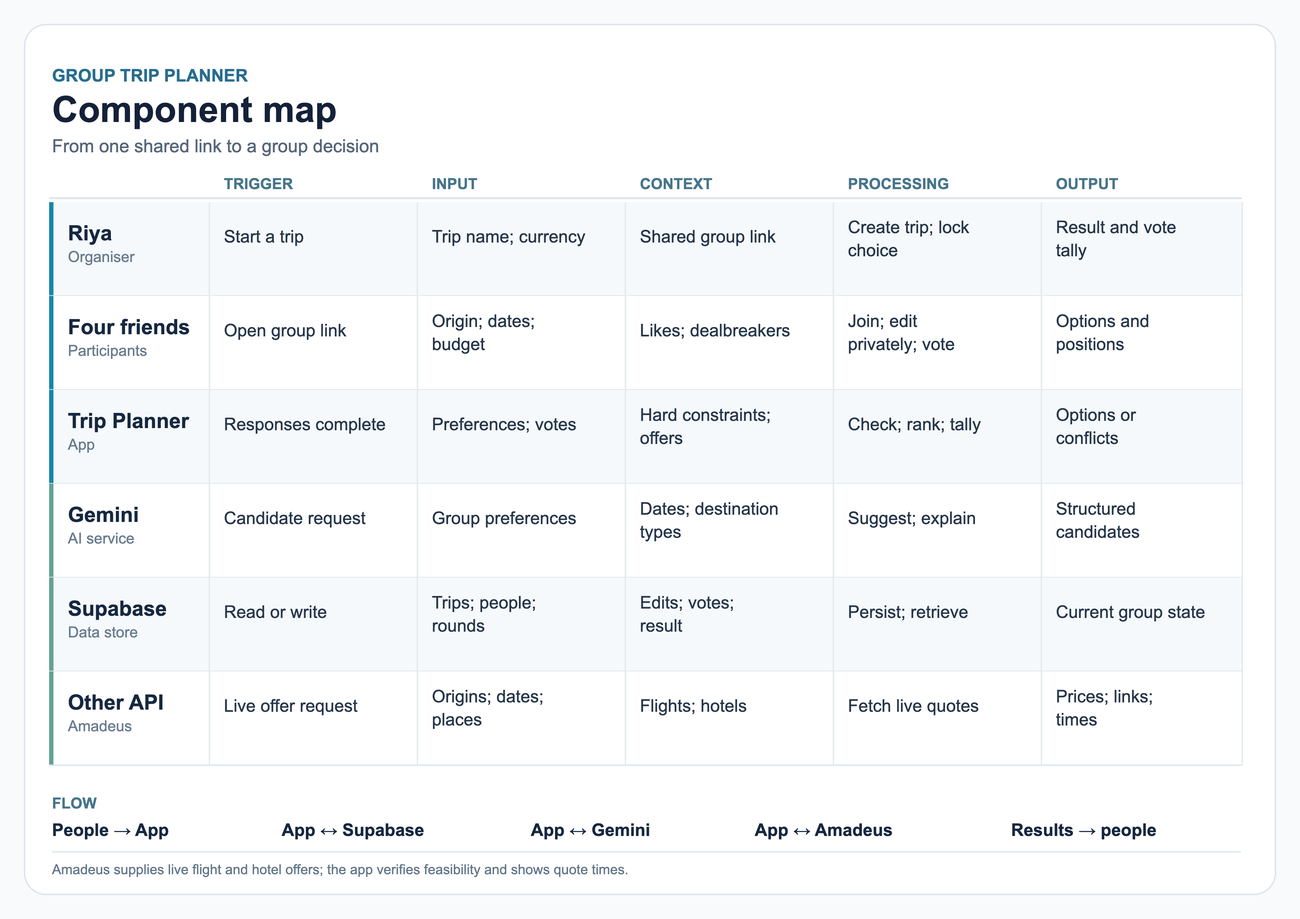
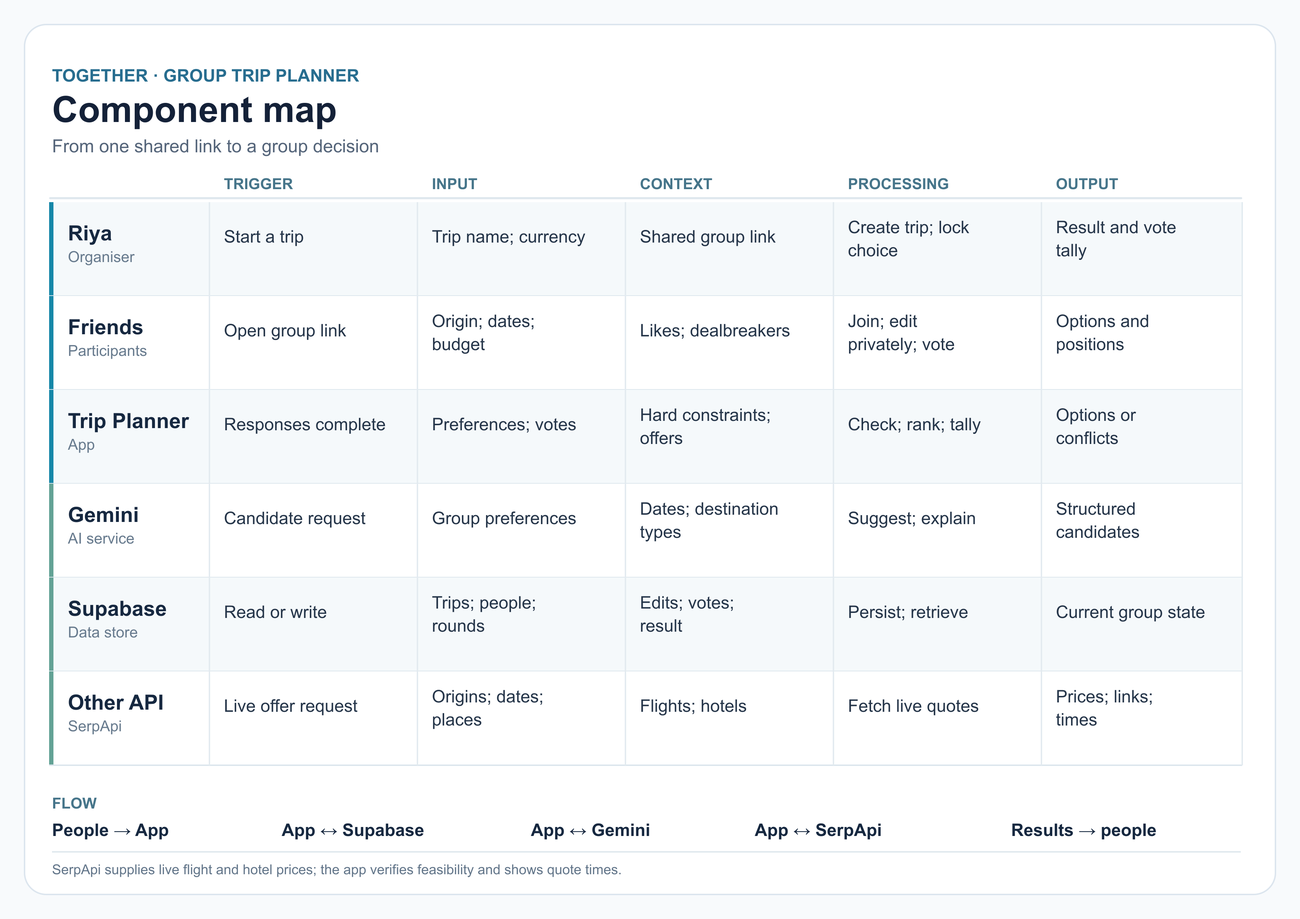
Rename app to Together and use free travel search provider

diff --git a/src/app/trip/[slug]/page.tsx b/src/app/trip/[slug]/page.tsx
@@ -44,7 +44,7 @@ export default function TripPage() {
   const sharedLink = typeof window === 'undefined' ? '' : `${location.origin}/trip/${slug}`;
   const privateLink = typeof window === 'undefined' ? '' : `${location.origin}/trip/${slug}#${trip?.organizer ? 'organizer' : 'member'}=${secret}`;
   const submitted = trip?.members.filter(m => m.submitted).length || 0;
-  return <main className="site-shell trip-shell"><header className="topbar"><a className="wordmark" href="/">gather<span>.</span></a><span className="eyebrow">THE GROUP TRIP STUDIO</span></header>
+  return <main className="site-shell trip-shell"><header className="topbar"><a className="wordmark" href="/">together<span>.</span></a><span className="eyebrow">THE GROUP TRIP STUDIO</span></header>
     {!trip ? <section className="loading">{error || 'Opening your trip…'}</section> : <><div className="trip-heading"><div><div className="index-label"><span className="dot"/> YOUR GROUP SPACE</div><h1>{trip.title}</h1><p>The trip takes shape as everyone adds their piece.</p></div><div className="share-box"><span>GROUP INVITE LINK</span><code>{sharedLink}</code><button onClick={() => copy(sharedLink, 'Group link')}>Copy link ↗</button></div></div>
     <div className="trip-grid"><div className="main-column"><section className="panel progress-panel"><div className="section-heading"><div><span className="section-index">01 / THE PEOPLE</span><h2>Everyone in?</h2></div><strong>{submitted}<small> / {trip.members.length} ready</small></strong></div><div className="progress-bar"><span style={{ width: `${trip.members.length ? submitted / trip.members.length * 100 : 0}%` }}/></div><div className="people-list">{trip.members.map((m, i) => <div className="person" key={`${m.name}-${i}`}><span className="avatar">{m.name.slice(0, 1).toUpperCase()}</span><span>{m.name}{trip.self?.name === m.name ? <em> · you</em> : ''}</span><span className={m.submitted ? 'status done' : 'status'}>{m.submitted ? 'READY' : 'WAITING'}</span></div>)}</div></section>
       {!trip.self && <section className="panel"><span className="section-index">JOIN THE GROUP</span><h2>Pull up a seat.</h2><p>Anyone with the group link can join. Your answer gets its own private edit link.</p><form onSubmit={e => { e.preventDefault(); void act('join', { name }); }} className="inline-form"><input value={name} maxLength={50} onChange={e => setName(e.target.value)} placeholder="Your name" required/><button className="primary" disabled={!!busy}>Join trip ↗</button></form></section>}
@@ -53,12 +53,12 @@ export default function TripPage() {
         {!trip.round && <p>{submitted === trip.members.length && trip.members.length >= 2 ? 'Everyone is ready. The organiser can generate options now.' : 'Options appear once at least two people have joined and everyone has submitted.'}</p>}
         {trip.round?.stale && <p className="notice">Preferences changed or someone joined since this round. The organiser can start a fresh round; this result stays in the history.</p>}
         {trip.round?.status === 'conflict' && <div className="conflict"><strong>No verified option this round</strong><p>Here is what stopped a recommendation:</p><ul>{trip.round.issues.map((issue, i) => <li key={i}>{issue}</li>)}</ul></div>}
-        {trip.round?.options.map((option, index) => <article className={`option ${trip.round?.locked_option_id === option.id ? 'chosen' : ''}`} key={option.id}><div className="option-top"><span>OPTION {String(index + 1).padStart(2, '0')} · {option.destination_type.toUpperCase()}</span><span>{option.score}% GROUP FIT</span></div><h3>{option.city}<small>, {option.country}</small></h3><p>{option.reason}</p><div className="option-prices"><div><span>GROUP ESTIMATE</span><strong>{trip.currency} {Math.round(option.total_cost).toLocaleString()}</strong></div><div><span>HOTEL</span><strong>{option.quote.hotelName}</strong></div></div><div className="positions">{option.positions.map(position => <div key={position.memberId}><span>{position.name}</span><span>{position.position}</span><strong>{position.cost === null ? 'Unavailable' : `${trip.currency} ${position.cost.toLocaleString()}`} <small>/ {position.budget.toLocaleString()} budget</small></strong></div>)}</div><div className="option-actions"><span>{trip.round?.locked_option_id === option.id ? '✓ CHOSEN TRIP' : `${trip.round?.tally[option.id] || 0} vote${trip.round?.tally[option.id] === 1 ? '' : 's'}`}</span>{trip.self && trip.round?.status === 'ready' && <button onClick={() => act('vote', { optionId: option.id })} disabled={!!busy || trip.round?.stale}>{trip.round?.myVote === option.id ? 'Your vote ✓' : 'Vote for this ↗'}</button>}</div><div className="quote-foot">Live Amadeus quote · {new Date(option.quote.quotedAt).toLocaleString()} · Availability and prices can change. <a href={option.quote.hotelLink} target="_blank" rel="noreferrer">Compare hotels ↗</a>{trip.self && option.quote.flightLinks[trip.self.id] && <> · <a href={option.quote.flightLinks[trip.self.id]} target="_blank" rel="noreferrer">Compare flights ↗</a></>}</div></article>)}
+        {trip.round?.options.map((option, index) => <article className={`option ${trip.round?.locked_option_id === option.id ? 'chosen' : ''}`} key={option.id}><div className="option-top"><span>OPTION {String(index + 1).padStart(2, '0')} · {option.destination_type.toUpperCase()}</span><span>{option.score}% GROUP FIT</span></div><h3>{option.city}<small>, {option.country}</small></h3><p>{option.reason}</p><div className="option-prices"><div><span>GROUP ESTIMATE</span><strong>{trip.currency} {Math.round(option.total_cost).toLocaleString()}</strong></div><div><span>HOTEL</span><strong>{option.quote.hotelName}</strong></div></div><div className="positions">{option.positions.map(position => <div key={position.memberId}><span>{position.name}</span><span>{position.position}</span><strong>{position.cost === null ? 'Unavailable' : `${trip.currency} ${position.cost.toLocaleString()}`} <small>/ {position.budget.toLocaleString()} budget</small></strong></div>)}</div><div className="option-actions"><span>{trip.round?.locked_option_id === option.id ? '✓ CHOSEN TRIP' : `${trip.round?.tally[option.id] || 0} vote${trip.round?.tally[option.id] === 1 ? '' : 's'}`}</span>{trip.self && trip.round?.status === 'ready' && <button onClick={() => act('vote', { optionId: option.id })} disabled={!!busy || trip.round?.stale}>{trip.round?.myVote === option.id ? 'Your vote ✓' : 'Vote for this ↗'}</button>}</div><div className="quote-foot">Live Google Travel quote via SerpApi · {new Date(option.quote.quotedAt).toLocaleString()} · Availability and prices can change. <a href={option.quote.hotelLink} target="_blank" rel="noreferrer">Compare hotels ↗</a>{trip.self && option.quote.flightLinks[trip.self.id] && <> · <a href={option.quote.flightLinks[trip.self.id]} target="_blank" rel="noreferrer">Compare flights ↗</a></>}</div></article>)}
         {trip.round?.status === 'ready' && trip.organizer && <div className="lock-row"><select aria-label="Option to lock" value={lockOption} onChange={e => setLockOption(e.target.value)}>{trip.round.options.map(option => <option key={option.id} value={option.id}>{option.city} · {trip.round?.tally[option.id] || 0} votes</option>)}</select><button className="primary" disabled={!!busy || !lockOption || trip.round.stale} onClick={() => act('lock', { optionId: lockOption })}>Lock group choice ↗</button></div>}
-        <p className="coverage">Flight coverage is limited by Amadeus inventory. Quotes are estimates, and booking searches may show different prices. Only options with live flight and hotel offers are shown. Review free-text dealbreakers together before booking.</p>
+        <p className="coverage">Flight and hotel coverage depends on Google Travel results. Quotes are estimates, and booking searches may show different prices. Only options with live flight and hotel offers are shown. Review free-text dealbreakers together before booking.</p>
       </section></div>
     <aside className="side-column"><section className="aside-card"><span className="section-index">YOUR NEXT STEP</span><h2>{!trip.self ? 'Join the trip.' : !trip.self.submitted ? 'Add your preferences.' : submitted < trip.members.length ? 'Invite the rest.' : trip.round?.status === 'ready' && !trip.round.myVote ? 'Cast your vote.' : trip.round?.status === 'locked' ? 'Trip decided.' : 'Ready for options.'}</h2><p>{!trip.self ? 'Enter your name in the group space.' : !trip.self.submitted ? 'A few details make the options useful for everyone.' : submitted < trip.members.length ? 'Share the group link with anyone still missing.' : trip.round?.status === 'locked' ? 'The organiser has locked the group choice.' : 'Every response is in. The organiser can start a round.'}</p>{trip.organizer && submitted === trip.members.length && trip.members.length >= 2 && <button className="secondary" disabled={!!busy} onClick={() => act('generate')}>{busy === 'generate' ? 'Checking live offers…' : trip.round ? 'Start new round ↗' : 'Generate options ↗'}</button>}</section><section className="aside-note"><span>HOW IT WORKS</span><p>We check shared dates, every budget and excluded destinations against live flight and hotel offers before showing a fit.</p></section>{trip.previousRounds.length > 0 && <section className="aside-note"><span>EARLIER ROUNDS</span>{trip.previousRounds.map(round => <p key={round.id}>{new Date(round.createdAt).toLocaleDateString()} · {round.lockedChoice ? `Chosen: ${round.lockedChoice}` : round.status}</p>)}</section>}</aside></div>
     {(error || notice) && <div className={error ? 'toast error' : 'toast'} role="status">{error || notice}<button onClick={() => { setError(''); setNotice(''); }} aria-label="Dismiss">×</button></div>}
     </>}
-    <footer className="footer"><span>GOOD PLANS MAKE ROOM FOR EVERYONE.</span><span>GATHER · GROUP TRAVEL</span></footer></main>;
+    <footer className="footer"><span>GOOD PLANS MAKE ROOM FOR EVERYONE.</span><span>TOGETHER · GROUP TRAVEL</span></footer></main>;
 }

diff --git a/src/lib/providers.ts b/src/lib/providers.ts
@@ -7,7 +7,7 @@ function required(name: string) {
 }
 
 export async function suggestCandidates(members: MemberInput[], dates: { startDate: string; endDate: string }): Promise<Candidate[]> {
-  const prompt = `Suggest 5 distinct real travel destinations with valid three-letter IATA city codes usable for both flight and hotel search. Return only JSON. Group dates: ${dates.startDate} to ${dates.endDate}. Group preferences: ${JSON.stringify(members.map(m => ({ origin: m.origin, budget: m.budget, destinationType: m.destinationType, preferences: m.preferences, dealbreakers: m.dealbreakers, excludedDestinations: m.excludedDestinations })))}. Avoid every excluded destination and dealbreaker. No prices. Keep reason under 140 characters. Types must be one of beach, city, nature, adventure, culture.`;
+  const prompt = `Suggest 3 distinct real travel destinations with valid three-letter IATA city codes usable for both flight and hotel search. Return only JSON. Group dates: ${dates.startDate} to ${dates.endDate}. Group preferences: ${JSON.stringify(members.map(m => ({ origin: m.origin, budget: m.budget, destinationType: m.destinationType, preferences: m.preferences, dealbreakers: m.dealbreakers, excludedDestinations: m.excludedDestinations })))}. Avoid every excluded destination and dealbreaker. No prices. Keep reason under 140 characters. Types must be one of beach, city, nature, adventure, culture.`;
   const response = await fetch('https://generativelanguage.googleapis.com/v1beta/models/gemini-2.5-flash:generateContent', {
     method: 'POST',
     headers: { 'Content-Type': 'application/json', 'x-goog-api-key': required('GEMINI_API_KEY') },
@@ -19,58 +19,47 @@ export async function suggestCandidates(members: MemberInput[], dates: { startDa
   const raw = result.candidates?.[0]?.content?.parts?.[0]?.text;
   if (!raw) throw new Error('Gemini returned no destinations. Try again.');
   const candidates = JSON.parse(raw).candidates as Candidate[];
-  return candidates.filter(c => c.city && c.country && /^[A-Z]{3}$/.test(c.iata)).slice(0, 6);
+  return candidates.filter(c => c.city && c.country && /^[A-Z]{3}$/.test(c.iata)).slice(0, 3);
 }
 
-let accessToken: { value: string; expiresAt: number } | null = null;
-let tokenRequest: Promise<string> | null = null;
-async function amadeusToken() {
-  if (accessToken && accessToken.expiresAt > Date.now() + 30000) return accessToken.value;
-  if (!tokenRequest) tokenRequest = (async () => {
-    const response = await fetch('https://api.amadeus.com/v1/security/oauth2/token', {
-      method: 'POST', headers: { 'Content-Type': 'application/x-www-form-urlencoded' },
-      body: new URLSearchParams({ grant_type: 'client_credentials', client_id: required('AMADEUS_CLIENT_ID'), client_secret: required('AMADEUS_CLIENT_SECRET') }),
-      cache: 'no-store', signal: AbortSignal.timeout(12000),
-    });
-    if (!response.ok) throw new Error(`Amadeus authentication returned ${response.status}. Check production access.`);
-    const data = await response.json();
-    accessToken = { value: data.access_token, expiresAt: Date.now() + Number(data.expires_in || 1500) * 1000 };
-    return accessToken.value;
-  })().finally(() => { tokenRequest = null; });
-  return tokenRequest;
-}
-
-async function amadeus(path: string, params: Record<string, string>) {
-  const url = new URL(`https://api.amadeus.com${path}`);
+async function search(params: Record<string, string>) {
+  const url = new URL('https://serpapi.com/search.json');
   for (const [key, value] of Object.entries(params)) url.searchParams.set(key, value);
-  const response = await fetch(url, { headers: { Authorization: `Bearer ${await amadeusToken()}` }, cache: 'no-store', signal: AbortSignal.timeout(12000) });
-  if (!response.ok) throw new Error(`Amadeus ${path} returned ${response.status}.`);
-  return response.json();
+  url.searchParams.set('api_key', required('SERPAPI_API_KEY'));
+  const response = await fetch(url, { cache: 'no-store', signal: AbortSignal.timeout(20000) });
+  if (!response.ok) throw new Error(`SerpApi returned ${response.status}. Check the free-plan quota or try later.`);
+  const data = await response.json();
+  if (data.error) throw new Error(`SerpApi search failed: ${String(data.error).slice(0, 180)}`);
+  return data;
 }
+
+type Flight = { price?: number };
+type Hotel = { name?: string; total_rate?: { extracted_lowest?: number } };
+const positive = (value: unknown): value is number => typeof value === 'number' && Number.isFinite(value) && value > 0;
 
 export async function liveQuote(candidate: Candidate, members: MemberInput[], dates: { startDate: string; endDate: string }, currency: string): Promise<{ quote: Quote | null; error?: string }> {
   try {
-    const roomQuantity = Math.ceil(members.length / 2);
-    const hotelList = await amadeus('/v1/reference-data/locations/hotels/by-city', { cityCode: candidate.iata });
-    const hotelIds = (hotelList.data || []).slice(0, 8).map((h: { hotelId: string }) => h.hotelId).filter(Boolean).join(',');
-    if (!hotelIds) return { quote: null, error: `No hotel inventory for ${candidate.city}.` };
-    const hotelRequest = amadeus('/v3/shopping/hotel-offers', { hotelIds, adults: String(members.length), roomQuantity: String(roomQuantity), checkInDate: dates.startDate, checkOutDate: dates.endDate, currency });
     const origins = [...new Set(members.map(m => m.origin))];
-    const flightsRequest = Promise.all(origins.map(async origin => {
+    const [hotelResult, ...flightResults] = await Promise.all([
+      search({ engine: 'google_hotels', q: `Hotels in ${candidate.city}, ${candidate.country}`, check_in_date: dates.startDate, check_out_date: dates.endDate, adults: String(members.length), currency }),
+      ...origins.map(origin => origin === candidate.iata ? Promise.resolve(null) : search({ engine: 'google_flights', departure_id: origin, arrival_id: candidate.iata, outbound_date: dates.startDate, return_date: dates.endDate, type: '1', adults: '1', currency })),
+    ]);
+    const hotels = (hotelResult.properties || [] as Hotel[])
+      .map((hotel: Hotel) => ({ name: hotel.name || 'Hotel', price: hotel.total_rate?.extracted_lowest }))
+      .filter((hotel: { price: unknown }) => positive(hotel.price))
+      .sort((a: { price: number }, b: { price: number }) => a.price - b.price);
+    const flights = origins.map((origin, index) => {
       if (origin === candidate.iata) return [origin, 0] as const;
-      const result = await amadeus('/v2/shopping/flight-offers', { originLocationCode: origin, destinationLocationCode: candidate.iata, departureDate: dates.startDate, returnDate: dates.endDate, adults: '1', currencyCode: currency, max: '10' });
-      const prices = (result.data || []).map((f: { price?: { grandTotal?: string; total?: string } }) => Number(f.price?.grandTotal || f.price?.total)).filter((n: number) => Number.isFinite(n) && n > 0);
+      const result = flightResults[index];
+      const prices = [...(result?.best_flights || []), ...(result?.other_flights || [])].map((flight: Flight) => flight.price).filter(positive);
       return [origin, prices.length ? Math.min(...prices) : NaN] as const;
-    }));
-    const [hotels, flights] = await Promise.all([hotelRequest, flightsRequest]);
-    const hotelOffers = (hotels.data || []).flatMap((h: { hotel?: { name?: string }; offers?: { price?: { total?: string } }[] }) => (h.offers || []).map(o => ({ name: h.hotel?.name || 'Hotel', price: Number(o.price?.total) }))).filter((h: { price: number }) => Number.isFinite(h.price) && h.price > 0);
-    hotelOffers.sort((a: { price: number }, b: { price: number }) => a.price - b.price);
-    if (!hotelOffers.length || flights.some(([, price]) => !Number.isFinite(price))) return { quote: null, error: `No complete flight and hotel offers for ${candidate.city}.` };
+    });
+    if (!hotels.length || flights.some(([, price]) => !Number.isFinite(price))) return { quote: null, error: `No complete round-trip flight and group hotel prices for ${candidate.city}.` };
     const flightPrices = Object.fromEntries(members.map(m => [m.id, flights.find(([origin]) => origin === m.origin)![1]]));
     const flightLinks = Object.fromEntries(members.map(m => [m.id, `https://www.google.com/travel/flights?hl=en&q=${encodeURIComponent(`Flights from ${m.origin} to ${candidate.iata} ${dates.startDate} returning ${dates.endDate}`)}`]));
-    return { quote: { flightPrices, hotelTotal: hotelOffers[0].price, currency, quotedAt: new Date().toISOString(), hotelName: hotelOffers[0].name, flightLinks, hotelLink: `https://www.booking.com/searchresults.html?ss=${encodeURIComponent(`${candidate.city}, ${candidate.country}`)}&checkin=${dates.startDate}&checkout=${dates.endDate}&group_adults=${members.length}&no_rooms=${roomQuantity}` } };
+    return { quote: { flightPrices, hotelTotal: hotels[0].price, currency, quotedAt: new Date().toISOString(), hotelName: hotels[0].name, flightLinks, hotelLink: `https://www.google.com/travel/hotels?q=${encodeURIComponent(`${candidate.city}, ${candidate.country}`)}&checkin=${dates.startDate}&checkout=${dates.endDate}&adults=${members.length}` } };
   } catch (error) {
-    const message = error instanceof Error ? error.message : 'Amadeus request failed.';
+    const message = error instanceof Error ? error.message : 'SerpApi request failed.';
     if (message.includes('not configured')) throw error;
     return { quote: null, error: `${candidate.city}: ${message}` };
   }

diff --git a/tests/flow.test.ts b/tests/flow.test.ts
@@ -7,8 +7,7 @@ test('five people can join, edit, resolve a conflict, vote, lock, and keep prior
   process.env.SUPABASE_URL = 'https://db.example.test';
   process.env.SUPABASE_SECRET_KEY = 'sb_secret_test';
   process.env.GEMINI_API_KEY = 'test';
-  process.env.AMADEUS_CLIENT_ID = 'test';
-  process.env.AMADEUS_CLIENT_SECRET = 'test';
+  process.env.SERPAPI_API_KEY = 'test';
   const rows: Record<string, Record<string, unknown>[]> = { trips: [], members: [], rounds: [], options: [], votes: [] };
   let sequence = 0;
   let failOffers = false;
@@ -37,11 +36,18 @@ test('five people can join, edit, resolve a conflict, vote, lock, and keep prior
       { city: 'Bali', country: 'Indonesia', iata: 'DPS', type: 'beach', reason: 'Warm beaches and varied stays.' },
       { city: 'Singapore', country: 'Singapore', iata: 'SIN', type: 'city', reason: 'Easy city break.' },
     ] }) }] } }] });
-    if (url.pathname.endsWith('/oauth2/token')) return Response.json({ access_token: 'test', expires_in: 1800 });
-    if (failOffers) return new Response('{}', { status: 503 });
-    if (url.pathname.endsWith('/hotels/by-city')) return Response.json({ data: [{ hotelId: 'HOTEL1' }] });
-    if (url.pathname.endsWith('/hotel-offers')) return Response.json({ data: [{ hotel: { name: 'Hotel One' }, offers: [{ price: { total: '500' } }] }] });
-    if (url.pathname.endsWith('/flight-offers')) return Response.json({ data: [{ price: { grandTotal: '300' } }] });
+    if (url.hostname === 'serpapi.com') {
+      assert.equal(url.searchParams.get('api_key'), 'test');
+      if (failOffers) return new Response('{}', { status: 503 });
+      if (url.searchParams.get('engine') === 'google_hotels') {
+        assert.equal(url.searchParams.get('adults'), '5');
+        return Response.json({ properties: [{ name: 'Hotel One', total_rate: { extracted_lowest: 500 } }] });
+      }
+      if (url.searchParams.get('engine') === 'google_flights') {
+        assert.equal(url.searchParams.get('type'), '1');
+        return Response.json({ best_flights: [{ price: 300 }] });
+      }
+    }
     return new Response('{}', { status: 404 });
   };
   try {
@@ -74,7 +80,7 @@ test('five people can join, edit, resolve a conflict, vote, lock, and keep prior
     assert.equal((await post(created.slug, 'generate', tokens[0])).status, 200);
     const failed = await get(created.slug);
     assert.equal(failed.round.status, 'conflict');
-    assert.match(failed.round.issues.join(' '), /Amadeus.*503/);
+    assert.match(failed.round.issues.join(' '), /SerpApi.*503/);
     assert.equal(failed.previousRounds.length, 2);
     assert.equal(failed.previousRounds[0].lockedChoice, 'Bali');
   } finally { globalThis.fetch = originalFetch; }

diff --git a/src/app/page.tsx b/src/app/page.tsx
@@ -19,7 +19,7 @@ export default function Home() {
     } catch (cause) { setError(cause instanceof Error ? cause.message : 'Could not create trip.'); setBusy(false); }
   }
   return <main className="site-shell home">
-    <header className="topbar"><a className="wordmark" href="/">gather<span>.</span></a><span className="eyebrow">THE GROUP TRIP STUDIO</span></header>
+    <header className="topbar"><a className="wordmark" href="/">together<span>.</span></a><span className="eyebrow">THE GROUP TRIP STUDIO</span></header>
     <div className="hero-grid"><section className="hero-copy"><div className="index-label"><span className="dot"/> THE NEXT TRIP STARTS HERE</div><h1>Good trips start<br/>with <em>everyone.</em></h1><p className="hero-lede">One link for the group. One place for everyone’s dates, budgets and non-negotiables. A decision you can all get behind.</p><div className="steps"><span>01 &nbsp; INVITE YOUR PEOPLE</span><span>02 &nbsp; FIND THE FIT</span><span>03 &nbsp; VOTE TOGETHER</span></div></section>
     <section className="create-card"><div className="card-kicker">START A NEW TRIP <span>↗</span></div><h2>Where to next?</h2><p>Create your space, then drop the link in your group chat. Anyone with it can join.</p><form onSubmit={create}><label>TRIP NAME<input required maxLength={80} placeholder="Summer escape, reunion, anything..." value={title} onChange={e => setTitle(e.target.value)}/></label><label>YOUR NAME<input required maxLength={50} placeholder="What should your friends call you?" value={name} onChange={e => setName(e.target.value)}/></label><label>GROUP CURRENCY<select value={currency} onChange={e => setCurrency(e.target.value)}><option value="USD">USD · US Dollar</option><option value="INR">INR · Indian Rupee</option><option value="EUR">EUR · Euro</option><option value="GBP">GBP · British Pound</option><option value="AUD">AUD · Australian Dollar</option><option value="CAD">CAD · Canadian Dollar</option></select></label>{error && <p className="error" role="alert">{error}</p>}<button disabled={busy} className="primary">{busy ? 'Creating…' : 'Create group trip'} <span>↗</span></button></form><div className="card-foot">No account needed. Your private edit link stays yours.</div></section></div>
     <footer className="footer"><span>LESS BACK-AND-FORTH. MORE GETTING THERE.</span><span>MADE FOR THE WHOLE GROUP</span></footer>

diff --git a/src/app/api/health/route.ts b/src/app/api/health/route.ts
@@ -3,7 +3,7 @@ import { NextResponse } from 'next/server';
 export async function GET() {
   const supabase = !!process.env.SUPABASE_URL && !!(process.env.SUPABASE_SECRET_KEY || process.env.SUPABASE_SERVICE_ROLE_KEY);
   const gemini = !!process.env.GEMINI_API_KEY;
-  const amadeus = !!process.env.AMADEUS_CLIENT_ID && !!process.env.AMADEUS_CLIENT_SECRET;
-  const ready = supabase && gemini && amadeus;
-  return NextResponse.json({ status: ready ? 'configured' : 'setup_required', supabase, gemini, amadeus }, { status: ready ? 200 : 503 });
+  const serpapi = !!process.env.SERPAPI_API_KEY;
+  const ready = supabase && gemini && serpapi;
+  return NextResponse.json({ status: ready ? 'configured' : 'setup_required', supabase, gemini, serpapi }, { status: ready ? 200 : 503 });
 }

diff --git a/tests/health.test.ts b/tests/health.test.ts
@@ -7,12 +7,11 @@ test('readiness never exposes keys and reports missing services', async () => {
   delete process.env.SUPABASE_URL;
   delete process.env.SUPABASE_SECRET_KEY;
   delete process.env.GEMINI_API_KEY;
-  delete process.env.AMADEUS_CLIENT_ID;
-  delete process.env.AMADEUS_CLIENT_SECRET;
+  delete process.env.SERPAPI_API_KEY;
   try {
     const response = await GET();
     assert.equal(response.status, 503);
     const body = await response.json();
-    assert.deepEqual(body, { status: 'setup_required', supabase: false, gemini: false, amadeus: false });
+    assert.deepEqual(body, { status: 'setup_required', supabase: false, gemini: false, serpapi: false });
   } finally { process.env = old; }
 });

diff --git a/src/app/api/trips/[slug]/route.ts b/src/app/api/trips/[slug]/route.ts
@@ -118,7 +118,7 @@ export async function POST(request: Request, context: Params) {
     return reply('Unknown action.');
   } catch (error) {
     const message = error instanceof Error ? error.message : 'Unexpected error';
-    const safe = message.includes('not configured') || message.startsWith('Gemini') || message.startsWith('Amadeus') ? message : 'Request failed. Please try again.';
+    const safe = message.includes('not configured') || message.startsWith('Gemini') || message.startsWith('SerpApi') ? message : 'Request failed. Please try again.';
     return reply(safe, 503);
   }
 }

diff --git a/src/app/layout.tsx b/src/app/layout.tsx
@@ -1,7 +1,7 @@
 import type { Metadata } from 'next';
 import './styles.css';
 
-export const metadata: Metadata = { title: 'Gather | Plan a trip together', description: 'A shared decision space for group travel.' };
+export const metadata: Metadata = { title: 'Together | Plan a trip with everyone', description: 'A shared decision space for group travel.' };
 export default function RootLayout({ children }: Readonly<{ children: React.ReactNode }>) {
   return <html lang="en"><body>{children}</body></html>;
 }

diff --git a/artifacts/render-component-map.py b/artifacts/render-component-map.py
@@ -12,11 +12,11 @@ COL_W, ROW_H = 288, 130
 HEADERS = ("TRIGGER", "INPUT", "CONTEXT", "PROCESSING", "OUTPUT")
 ROWS = (
     ("Riya", "Organiser", "Start a trip", "Trip name; currency", "Shared group link", "Create trip; lock choice", "Result and vote tally"),
-    ("Four friends", "Participants", "Open group link", "Origin; dates; budget", "Likes; dealbreakers", "Join; edit privately; vote", "Options and positions"),
+    ("Friends", "Participants", "Open group link", "Origin; dates; budget", "Likes; dealbreakers", "Join; edit privately; vote", "Options and positions"),
     ("Trip Planner", "App", "Responses complete", "Preferences; votes", "Hard constraints; offers", "Check; rank; tally", "Options or conflicts"),
     ("Gemini", "AI service", "Candidate request", "Group preferences", "Dates; destination types", "Suggest; explain", "Structured candidates"),
     ("Supabase", "Data store", "Read or write", "Trips; people; rounds", "Edits; votes; result", "Persist; retrieve", "Current group state"),
-    ("Other API", "Amadeus", "Live offer request", "Origins; dates; places", "Flights; hotels", "Fetch live quotes", "Prices; links; times"),
+    ("Other API", "SerpApi", "Live offer request", "Origins; dates; places", "Flights; hotels", "Fetch live quotes", "Prices; links; times"),
 )
 
 
@@ -31,7 +31,7 @@ parts = [
     f'<svg xmlns="http://www.w3.org/2000/svg" width="{WIDTH * EXPORT_SCALE}" height="{HEIGHT * EXPORT_SCALE}" viewBox="0 0 {WIDTH} {HEIGHT}">',
     '<rect width="1800" height="1273" fill="#f8fafc"/>',
     '<rect x="34" y="34" width="1732" height="1205" rx="30" fill="white" stroke="#dce5ee" stroke-width="2"/>',
-    text(72, 113, "GROUP TRIP PLANNER", 24, "#276d8f", 700),
+    text(72, 113, "TOGETHER · GROUP TRIP PLANNER", 24, "#276d8f", 700),
     text(72, 169, "Component map", 50, "#142138", 700),
     text(72, 211, "From one shared link to a group decision", 25, "#55657a", 400),
     '<rect x="68" y="273" width="1652" height="3" rx="1.5" fill="#dfe8ee"/>',
@@ -80,10 +80,10 @@ parts.extend(
         text(72, 1158, "People → App", 24, "#162840", 600),
         text(390, 1158, "App ↔ Supabase", 24, "#162840", 600),
         text(735, 1158, "App ↔ Gemini", 24, "#162840", 600),
-        text(1045, 1158, "App ↔ Amadeus", 24, "#162840", 600),
+        text(1045, 1158, "App ↔ SerpApi", 24, "#162840", 600),
         text(1400, 1158, "Results → people", 24, "#162840", 600),
         '<line x1="72" y1="1180" x2="1718" y2="1180" stroke="#dfe8ee" stroke-width="2"/>',
-        text(72, 1211, "Amadeus supplies live flight and hotel offers; the app verifies feasibility and shows quote times.", 19, "#63768a", 400),
+        text(72, 1211, "SerpApi supplies live flight and hotel prices; the app verifies feasibility and shows quote times.", 19, "#63768a", 400),
         '</svg>',
     ]
 )

diff --git a/README.md b/README.md
@@ -1,4 +1,4 @@
-# Gather: group trip planner
+# Together: group trip planner
 
 Create a trip, share its unique group link, and let any number of friends join. Every member receives a private edit link. Once everyone has submitted, the organiser can request a recommendation round, the group can vote, and the organiser can lock a choice. Previous rounds remain stored.
 
@@ -7,7 +7,7 @@ Create a trip, share its unique group link, and let any number of friends join. 
 - Next.js 16 and TypeScript
 - Supabase PostgREST for persistent trips, members, rounds, options, and votes
 - Gemini structured JSON for destination candidates and short explanations
-- Amadeus production flight and hotel APIs for live estimates
+- SerpApi Google Flights and Hotels APIs for live estimates (free plan)
 
 All keys stay in server environment variables. The public group link lets anyone join and see names, response progress, options, and vote totals. A member's private fragment link is required to edit their response or vote. The organiser's private fragment link is required to generate rounds and lock a choice. Keep private links out of public channels.
 
@@ -15,9 +15,9 @@ All keys stay in server environment variables. The public group link lets anyone
 
 1. Create a Supabase project and run [`supabase/schema.sql`](supabase/schema.sql) in its SQL editor.
 2. Set the variables listed in [`.env.example`](.env.example) locally and in Vercel project settings. Use a new `sb_secret_` Supabase key if possible. The legacy service role key also works through `SUPABASE_SERVICE_ROLE_KEY`.
-3. Use Amadeus **production** credentials with access to flight offers, hotel list, and hotel offers. The old Self-Service portal was decommissioned in July 2026, so confirm that your account still has working production access before promising live offers.
+3. Add a free SerpApi API key as `SERPAPI_API_KEY`. The free plan includes 250 searches per month; each destination uses one hotel search plus one round-trip flight search per distinct origin, up to three destinations per round. No payment method is needed for the free plan. Use a Gemini API key on its free tier.
 4. Run `npm ci`, `npm test`, `npm run typecheck`, and `npm run build`.
-5. Deploy with `vercel --prod` after linking the Vercel project and setting the runtime variables. Verify a five-member flow on the resulting URL.
+5. Deploy with `vercel --prod` after linking the Vercel project and setting the runtime variables. Verify a multi-member flow on the resulting URL.
 
 No fake prices are used. A round reports a date conflict, unavailable offer, or provider error when it cannot verify a candidate. Budget checks use one round-trip flight per person plus an equal share of the quoted hotel total. Destination type influences compatibility; dates, per-person budget, and explicitly excluded destinations are enforced in code. Other free-text dealbreakers inform Gemini's suggestions and should be checked by the group before booking. Provider links open comparison searches, whose prices may differ from the stored quote.
 
